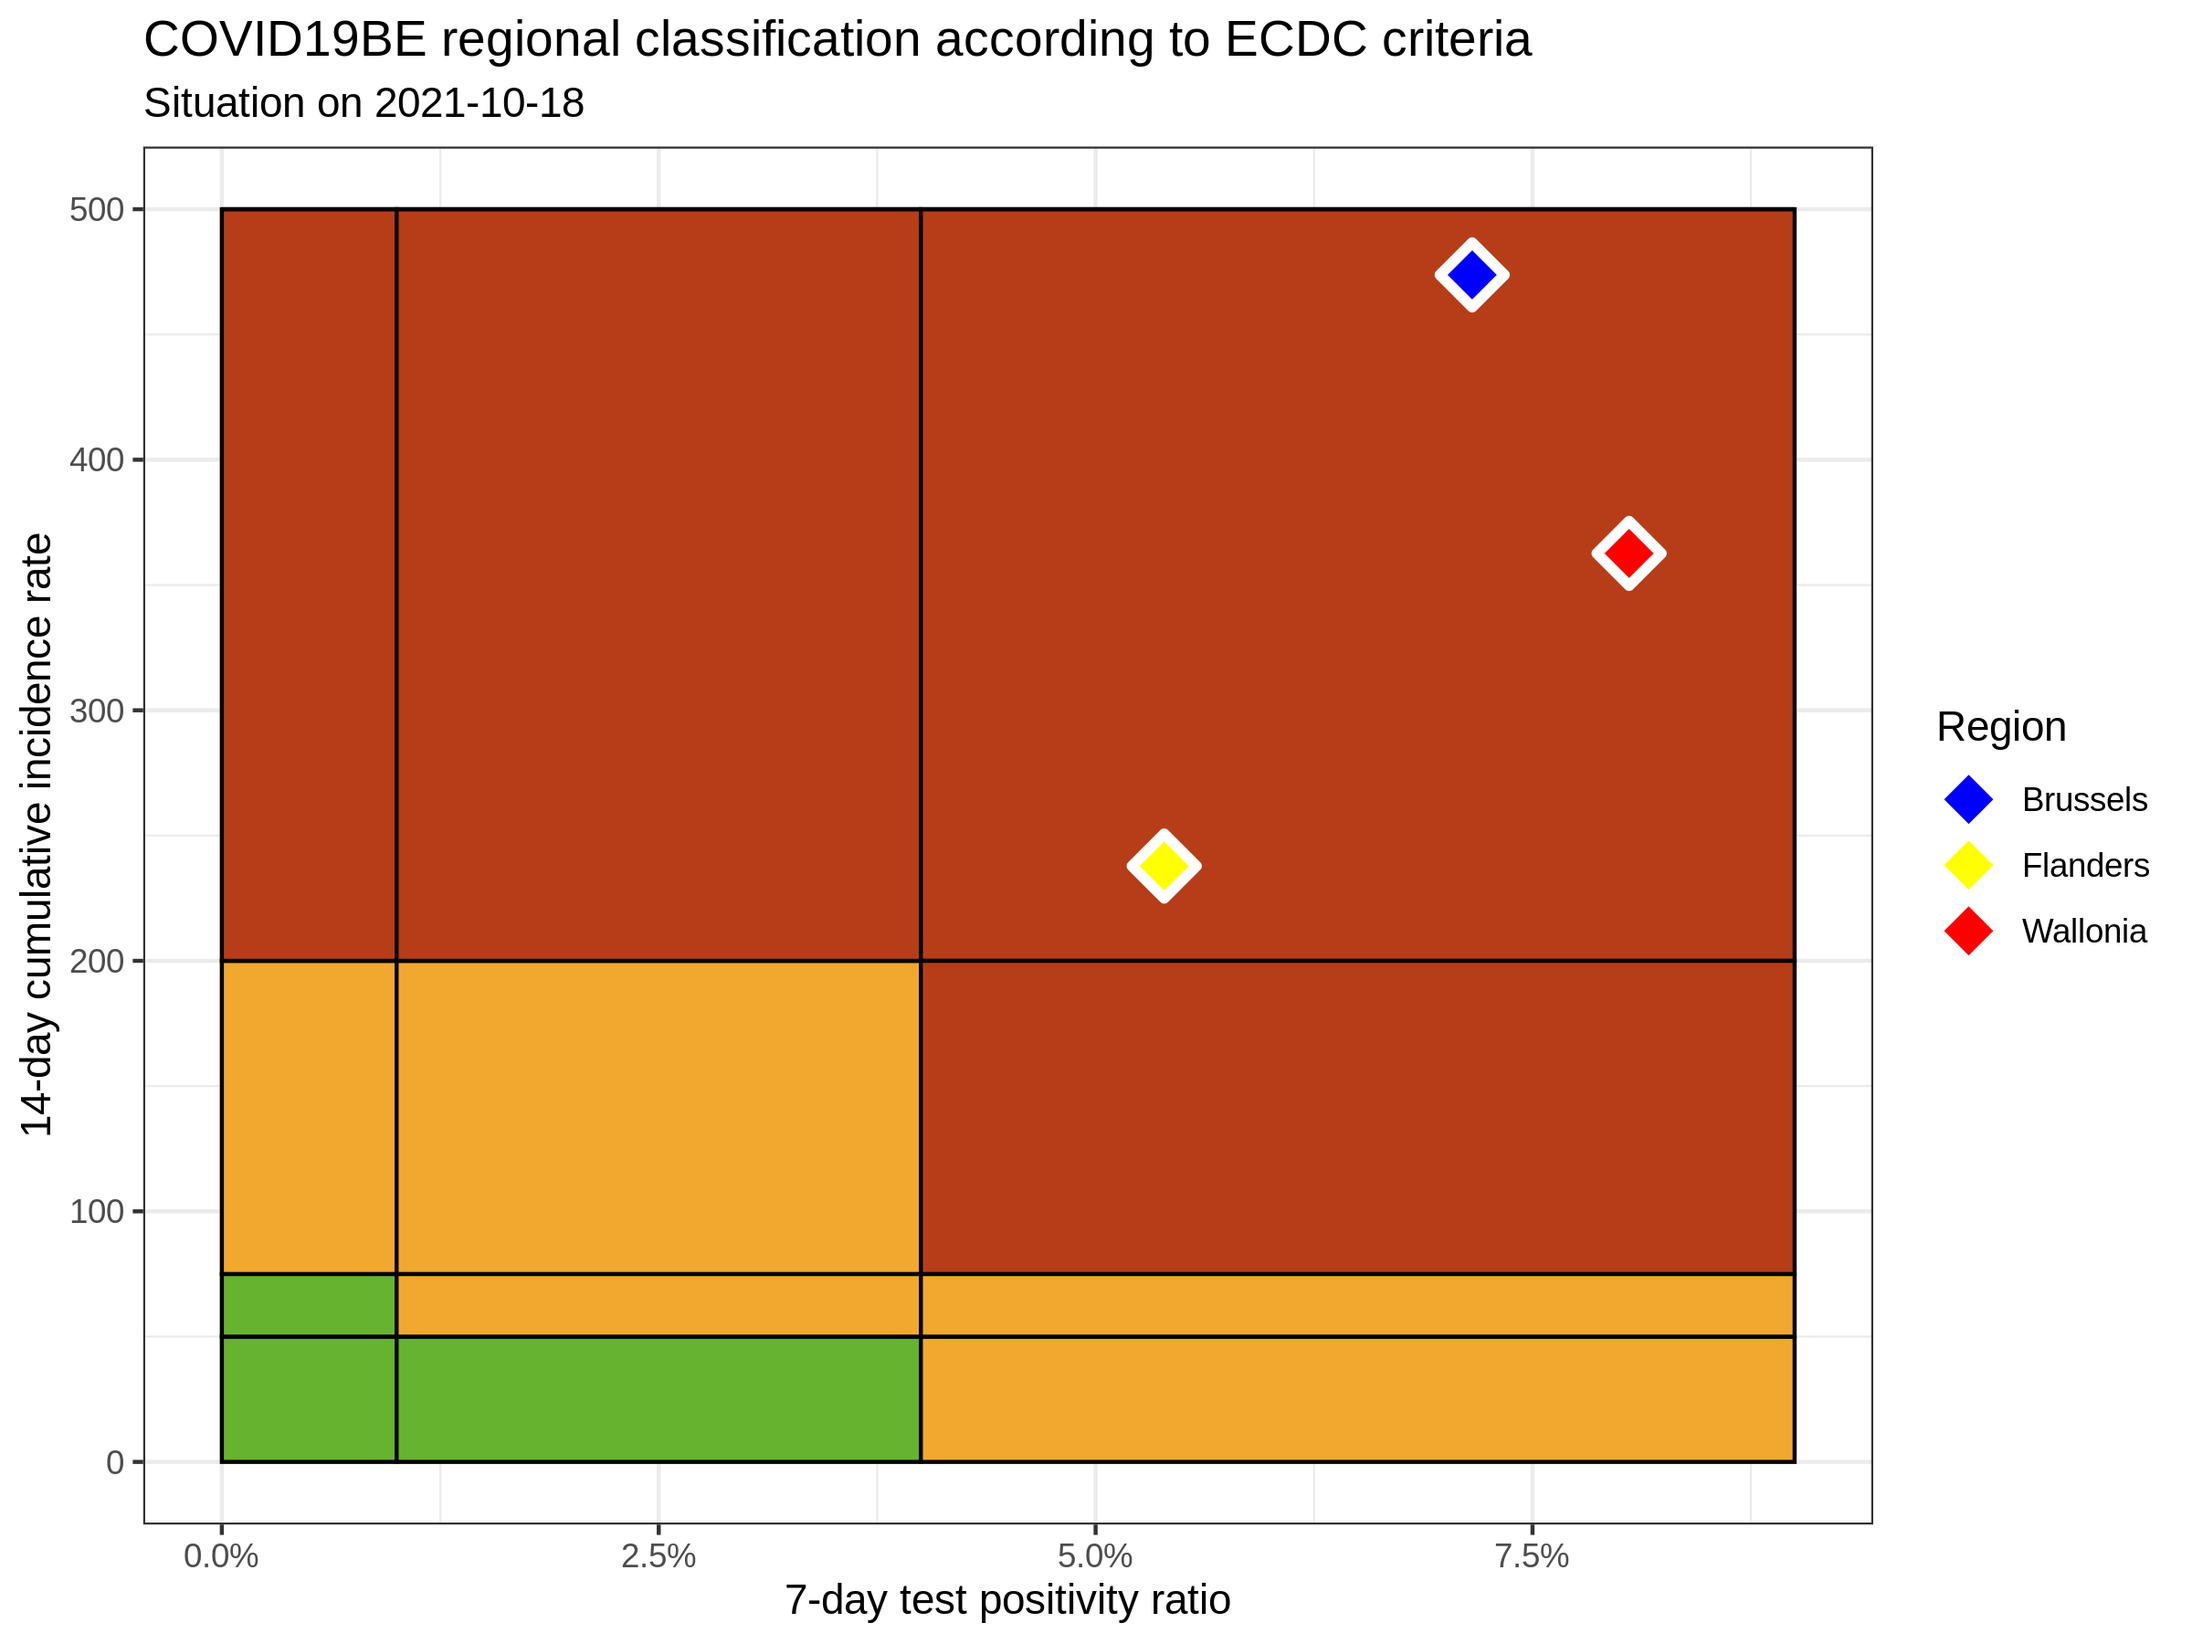
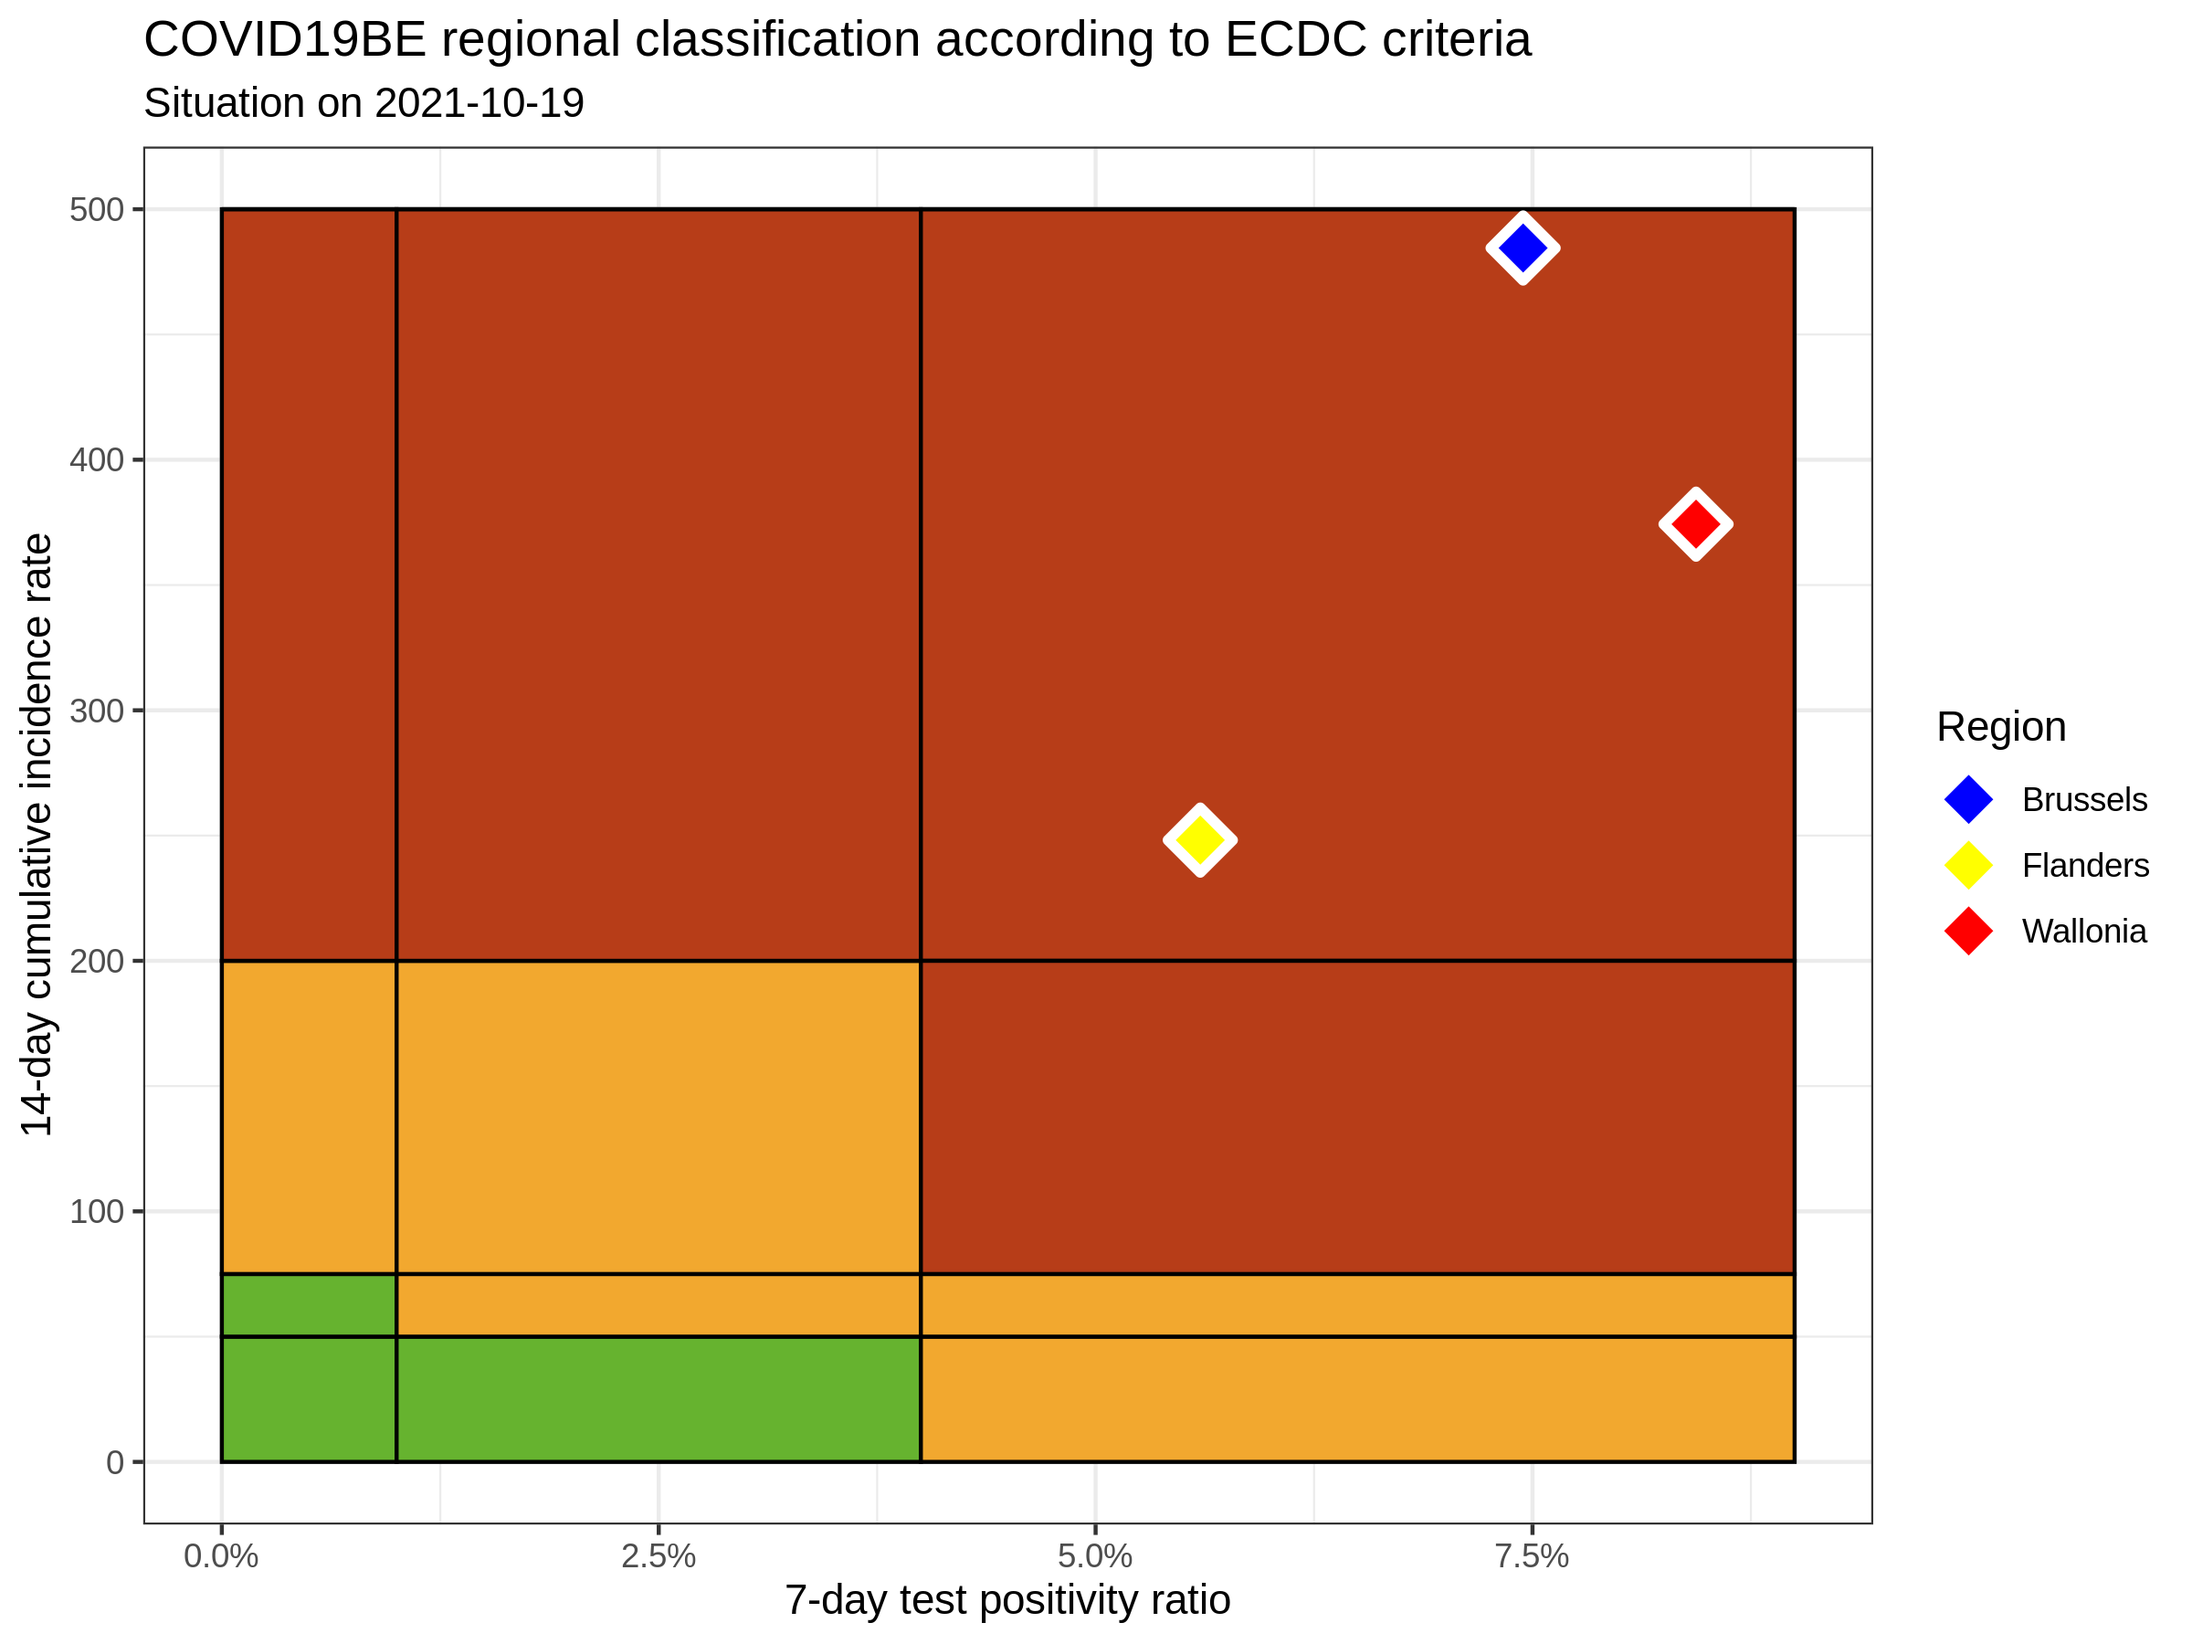
update situation

Changed region(s): [[0.7188, 0.28, 0.8125, 0.3733], [0.6562, 0.1244, 0.7188, 0.1867], [0.5, 0.4978, 0.5625, 0.56]]

diff --git a/ecdc-trend/README.md b/ecdc-trend/README.md
@@ -9,11 +9,11 @@
 
 ![](COVID9BE-ecdc-trend.png)
 
-|          | INC14 | INC7 |   TST7 | TST\_POS7 | REGION   |     POP | INC14\_RT |       PR7 |        GR |
-| :------- | ----: | ---: | -----: | --------: | :------- | ------: | --------: | --------: | --------: |
-| Brussels |  5780 | 3282 |  47939 |      3430 | Brussels | 1219970 |  473.7821 | 0.0715493 | 0.3138511 |
-| Flanders | 15823 | 9679 | 184161 |      9931 | Flanders | 6653062 |  237.8303 | 0.0539256 | 0.5753581 |
-| Wallonia | 13229 | 7737 |  97667 |      7865 | Wallonia | 3648206 |  362.6166 | 0.0805287 | 0.4087764 |
+|          | INC14 |  INC7 |   TST7 | TST\_POS7 | REGION   |     POP | INC14\_RT |       PR7 |        GR |
+| :------- | ----: | ----: | -----: | --------: | :------- | ------: | --------: | --------: | --------: |
+| Brussels |  5911 |  3390 |  49447 |      3682 | Brussels | 1219970 |  484.5201 | 0.0744636 | 0.3447045 |
+| Flanders | 16512 | 10249 | 189458 |     10608 | Flanders | 6653062 |  248.1865 | 0.0559913 | 0.6364362 |
+| Wallonia | 13655 |  8029 |  99597 |      8402 | Wallonia | 3648206 |  374.2936 | 0.0843600 | 0.4271241 |
 
 ### Read more
 
